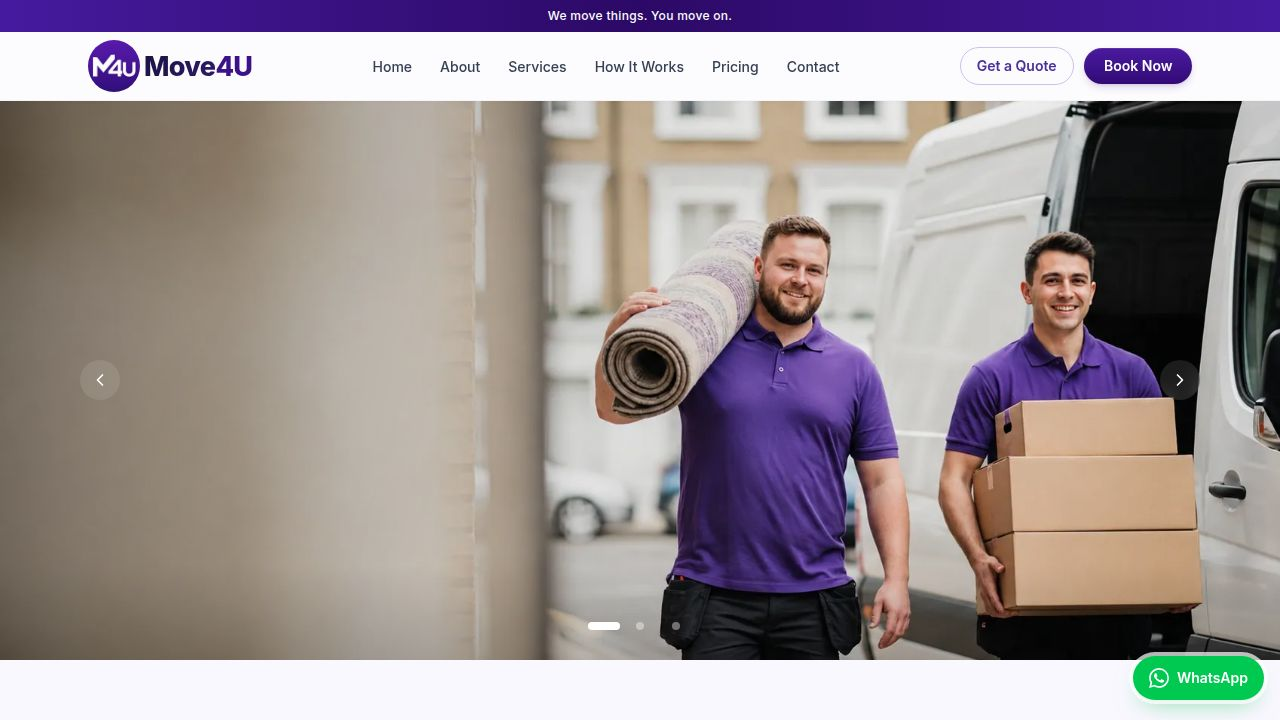
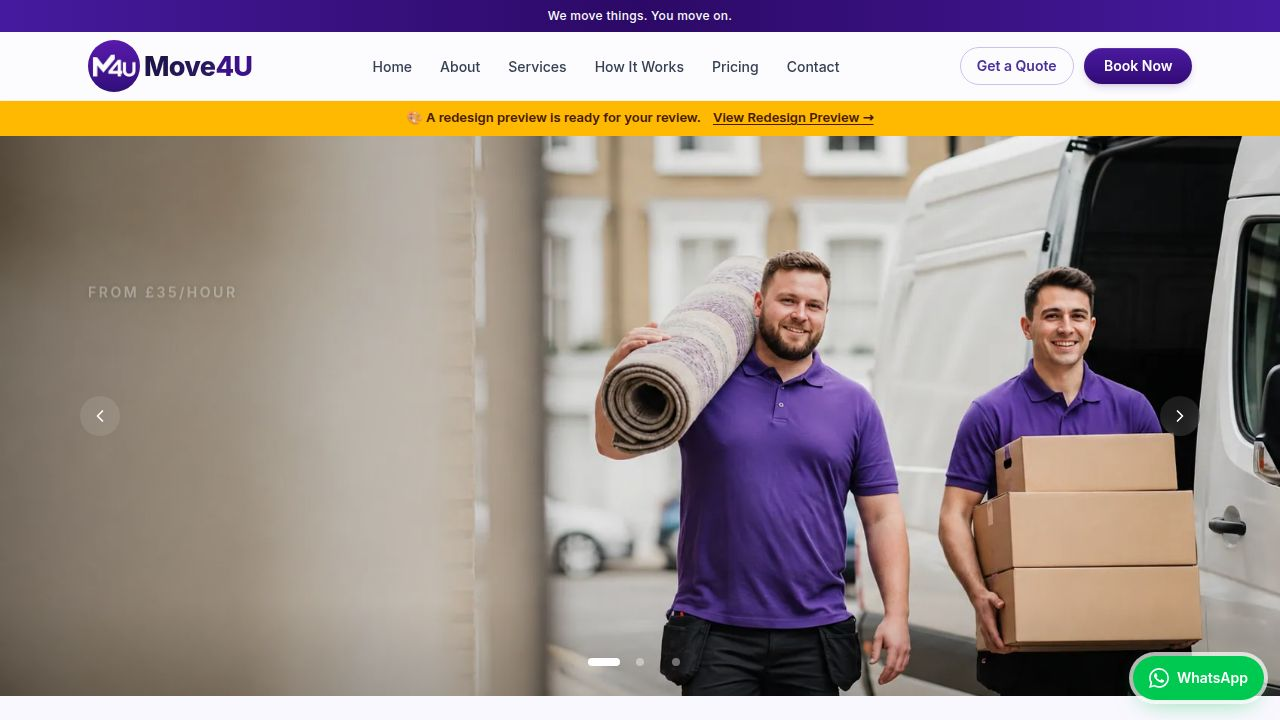
Replace Gmail email sending with Zoho for all outgoing application emails
Integrate Zoho Mail for sending confirmation and payment emails via SMTP, updating API endpoints and frontend components.

Replit-Commit-Author: Agent
Replit-Commit-Session-Id: 07bf3fe5-6776-4466-8bc2-98fb9ea8217c
Replit-Commit-Checkpoint-Type: full_checkpoint
Replit-Commit-Event-Id: 3c06571a-ff63-4faa-9170-6f4c83b72a71
Replit-Commit-Screenshot-Url: https://storage.googleapis.com/screenshot-production-us-central1/74eddbf7-d890-45b1-ac5e-73575f91ee9f/07bf3fe5-6776-4466-8bc2-98fb9ea8217c/vzKKDwg
Replit-Helium-Checkpoint-Created: true

diff --git a/artifacts/api-server/src/lib/email.ts b/artifacts/api-server/src/lib/email.ts
@@ -1,0 +1,80 @@
+// ============================================================
+// ZOHO SMTP EMAIL SENDER
+// ============================================================
+// Sends transactional emails from [email redacted] via Zoho Mail.
+//
+// Required environment variables:
+//   ZOHO_SMTP_PASSWORD — password (or app-specific password) for
+//                        the [email redacted] Zoho mailbox.
+//
+// Optional overrides:
+//   ZOHO_SMTP_HOST (default: smtp.zoho.eu)
+//   ZOHO_SMTP_PORT (default: 587)
+//   ZOHO_SMTP_USER (default: [email redacted])
+// ============================================================
+
+import nodemailer from "nodemailer";
+import { logger } from "./logger";
+
+const FROM_EMAIL = "[email redacted]";
+const FROM_NAME  = "Move4U";
+
+function createTransporter() {
+  const password = process.env["ZOHO_SMTP_PASSWORD"];
+  if (!password) return null;
+
+  const host = process.env["ZOHO_SMTP_HOST"] ?? "smtp.zoho.eu";
+  const port = parseInt(process.env["ZOHO_SMTP_PORT"] ?? "587", 10);
+  const user = process.env["ZOHO_SMTP_USER"] ?? FROM_EMAIL;
+
+  return nodemailer.createTransport({
+    host,
+    port,
+    secure: port === 465,
+    auth: { user, pass: password },
+  });
+}
+
+export interface SendEmailOptions {
+  to:      string;
+  subject: string;
+  text:    string;
+  replyTo?: string;
+}
+
+export async function sendEmail(
+  opts: SendEmailOptions,
+): Promise<{ sent: boolean; error?: string }> {
+  if (!opts.to?.trim()) {
+    return { sent: false, error: "No recipient address provided" };
+  }
+
+  const transporter = createTransporter();
+  if (!transporter) {
+    logger.warn(
+      "ZOHO_SMTP_PASSWORD is not set — email sending is disabled. " +
+      "Add ZOHO_SMTP_PASSWORD to your environment secrets to enable Zoho Mail.",
+    );
+    return { sent: false, error: "SMTP not configured (ZOHO_SMTP_PASSWORD missing)" };
+  }
+
+  try {
+    await transporter.sendMail({
+      from:    `"${FROM_NAME}" <${FROM_EMAIL}>`,
+      replyTo: opts.replyTo ?? FROM_EMAIL,
+      to:      opts.to,
+      subject: opts.subject,
+      text:    opts.text,
+    });
+
+    logger.info(
+      { to: opts.to, subject: opts.subject },
+      "Email sent via Zoho SMTP",
+    );
+    return { sent: true };
+  } catch (err) {
+    const msg = err instanceof Error ? err.message : String(err);
+    logger.error({ err, to: opts.to, subject: opts.subject }, "Zoho SMTP send failed");
+    return { sent: false, error: msg };
+  }
+}

diff --git a/artifacts/move4u/src/pages/AdminBookingsPage.tsx b/artifacts/move4u/src/pages/AdminBookingsPage.tsx
@@ -271,16 +271,9 @@ function buildContactHref(channel: ContactChannel, b: BookingRecord, message: st
       // browsers normalise both.
       return `sms:${dialablePhone(b.phone)}?body=${encoded}`;
     case "email": {
-      // Gmail compose link — pre-fills To, Subject and Body.
-      // ⚠ Admin must verify the sender is [email redacted] before sending.
       const addr = email || "";
       const subject = `Move4U — Booking ${b.bookingReference}`;
-      return (
-        `https://mail.google.com/mail/?view=cm&fs=1` +
-        `&to=${encodeURIComponent(addr)}` +
-        `&su=${encodeURIComponent(subject)}` +
-        `&body=${encoded}`
-      );
+      return `mailto:${encodeURIComponent(addr)}?subject=${encodeURIComponent(subject)}&body=${encoded}`;
     }
     case "call":
       return `tel:${dialablePhone(b.phone)}`;
@@ -1037,10 +1030,8 @@ export default function AdminBookingsPage() {
     }
   }
 
-  function buildConfirmationEmailHref(b: BookingRecord, form: EditForm): string {
-    const email   = parseEmailFromContactMethod(b.contactMethod);
-    const subject = `Updated Booking Confirmation — ${b.bookingReference}`;
-    const date    = form.confirmedDate || b.date     || "TBC";
+  function buildConfirmationEmailBody(b: BookingRecord, form: EditForm): string {
+    const date    = form.confirmedDate || b.date      || "TBC";
     const time    = form.confirmedTime || b.timeWindow || "TBC";
     const from    = form.pickup  || b.pickup  || "—";
     const to      = form.dropoff || b.dropoff || "—";
@@ -1048,7 +1039,7 @@ export default function AdminBookingsPage() {
     const deposit = form.depositAmount ? `£${parseFloat(form.depositAmount).toFixed(2)}` : "—";
     const name    = b.name || "there";
 
-    const body =
+    return (
       `Hi ${name},\n\n` +
       `Please find your updated booking confirmation below.\n\n` +
       `Booking Reference: ${b.bookingReference}\n` +
@@ -1063,32 +1054,30 @@ export default function AdminBookingsPage() {
       `Kind regards,\n` +
       `Move4U\n` +
       `📞 07541 822561\n` +
-      `🌐 https://move4u.uk`;
-
-    return (
-      `https://mail.google.com/mail/?view=cm&fs=1` +
-      `&to=${encodeURIComponent(email)}` +
-      `&su=${encodeURIComponent(subject)}` +
-      `&body=${encodeURIComponent(body)}`
+      `🌐 https://move4u.uk`
     );
   }
 
-  async function recordConfirmationSent(ref: string, subject: string, sentTo: string) {
+  async function sendConfirmationEmail(ref: string, b: BookingRecord, form: EditForm) {
+    const email   = parseEmailFromContactMethod(b.contactMethod);
+    if (!email) return;
+    const subject = `Updated Booking Confirmation — ${ref}`;
+    const body    = buildConfirmationEmailBody(b, form);
     setConfirmBusy(ref);
     try {
       await apiFetch(
         `/api/admin/bookings/${encodeURIComponent(ref)}/send-confirmation`,
-        { method: "POST", body: JSON.stringify({ subject, sentTo }) },
+        { method: "POST", body: JSON.stringify({ subject, sentTo: email, body }) },
       );
       setBookings((prev) =>
-        prev.map((b) =>
-          b.bookingReference === ref
-            ? { ...b, confirmationSent: "Yes", confirmationSentAt: new Date().toISOString() }
-            : b,
+        prev.map((bk) =>
+          bk.bookingReference === ref
+            ? { ...bk, confirmationSent: "Yes", confirmationSentAt: new Date().toISOString() }
+            : bk,
         ),
       );
     } catch {
-      // Best-effort tracking — don't block the admin
+      // Errors are surfaced via apiFetch — don't block the admin UI
     } finally {
       setConfirmBusy(null);
     }
@@ -1799,8 +1788,6 @@ export default function AdminBookingsPage() {
                     {(() => {
                       const email = parseEmailFromContactMethod(booking.contactMethod);
                       if (!email) return null;
-                      const subject       = `Updated Booking Confirmation — ${booking.bookingReference}`;
-                      const confirmHref   = buildConfirmationEmailHref(booking, form);
                       const alreadySent   = booking.confirmationSent === "Yes";
                       const isConfirmBusy = confirmBusy === ref;
                       return (
@@ -1811,23 +1798,20 @@ export default function AdminBookingsPage() {
                               ✓ Confirmation sent{booking.confirmationSentAt ? ` on ${new Date(booking.confirmationSentAt).toLocaleDateString("en-GB")}` : ""}.
                             </p>
                           )}
-                          <div className="bg-amber-50 border border-amber-100 rounded-lg px-3 py-2 text-xs text-amber-700 mb-3">
-                            ⚠ This opens Gmail compose. Verify the sender is <strong>[email redacted]</strong> before sending.
+                          <div className="bg-purple-50 border border-purple-100 rounded-lg px-3 py-2 text-xs text-purple-700 mb-3">
+                            Emails are sent from <strong>[email redacted]</strong>
                           </div>
-                          <a
-                            href={confirmHref}
-                            target="_blank"
-                            rel="noopener noreferrer"
-                            onClick={() => {
-                              void recordConfirmationSent(ref, subject, email);
-                            }}
-                            className="inline-flex items-center gap-1.5 px-4 py-2 bg-purple-700 text-white text-sm font-semibold rounded-xl hover:bg-purple-800 transition-colors"
+                          <button
+                            type="button"
+                            disabled={isConfirmBusy}
+                            onClick={() => void sendConfirmationEmail(ref, booking, form)}
+                            className="inline-flex items-center gap-1.5 px-4 py-2 bg-purple-700 text-white text-sm font-semibold rounded-xl hover:bg-purple-800 transition-colors disabled:opacity-60"
                           >
                             {isConfirmBusy
-                              ? <><span className="w-3.5 h-3.5 border-2 border-white border-t-transparent rounded-full animate-spin" /> Recording…</>
+                              ? <><span className="w-3.5 h-3.5 border-2 border-white border-t-transparent rounded-full animate-spin" /> Sending…</>
                               : <><Mail className="w-3.5 h-3.5" /> {alreadySent ? "Re-send Confirmation" : "Send Updated Confirmation"}</>
                             }
-                          </a>
+                          </button>
                         </section>
                       );
                     })()}

diff --git a/artifacts/api-server/src/routes/admin.ts b/artifacts/api-server/src/routes/admin.ts
@@ -15,6 +15,7 @@ import { Router, type Request, type Response, type NextFunction } from "express"
 const Stripe = require("stripe").default ?? require("stripe");
 import { getAllBookings, updateBookingAdmin, getBookingByRef, writeAuditLog, type BookingRecord } from "../lib/sheets";
 import { editBookingMessage, sendBookingUpdateNotification, sendInvoiceCreatedNotification, type TelegramBooking } from "../lib/telegram";
+import { sendEmail } from "../lib/email";
 import { logger } from "../lib/logger";
 
 const adminRouter = Router();
@@ -593,18 +594,34 @@ adminRouter.post("/admin/bookings/:ref/payment-link", requireAdmin, async (req: 
 });
 
 // ── POST /api/admin/bookings/:ref/send-confirmation ──────────────────────────
-// Records that a confirmation email has been sent (opened manually via Gmail).
-// Does NOT send the email itself — the admin opens a Gmail compose link in the UI.
+// Sends a booking confirmation email from [email redacted] via Zoho SMTP,
+// then records the send in Google Sheets and the audit log.
 adminRouter.post("/admin/bookings/:ref/send-confirmation", requireAdmin, async (req: Request, res: Response) => {
   const bookingRef = req.params.ref as string;
   const {
     subject = `Updated Booking Confirmation — ${bookingRef}`,
     sentTo  = "",
+    body    = "",
   } = req.body as Record<string, string>;
 
   const sentAt = new Date().toISOString();
 
+  if (!sentTo.trim()) {
+    res.status(400).json({ error: "No recipient email address provided" });
+    return;
+  }
+
   try {
+    // Send the email via Zoho SMTP
+    const emailResult = await sendEmail({ to: sentTo, subject, text: body });
+
+    if (!emailResult.sent) {
+      logger.warn({ bookingRef, sentTo, error: emailResult.error }, "Confirmation email failed to send");
+      res.status(502).json({ error: emailResult.error ?? "Failed to send email" });
+      return;
+    }
+
+    // Record the successful send in Sheets and audit log
     await updateBookingAdmin(bookingRef, {
       confirmationSent:    "Yes",
       confirmationSentAt:  sentAt,
@@ -616,15 +633,15 @@ adminRouter.post("/admin/bookings/:ref/send-confirmation", requireAdmin, async (
       bookingRef,
       fieldChanged: "Confirmation Email",
       oldValue:     "Not sent",
-      newValue:     `Sent — Subject: ${subject}${sentTo ? ` | To: ${sentTo}` : ""}`,
+      newValue:     `Sent — Subject: ${subject} | To: ${sentTo}`,
       changedBy:    "Admin",
     }]);
 
-    logger.info({ bookingRef, subject, sentTo }, "Confirmation send recorded");
-    res.json({ success: true, sentAt });
+    logger.info({ bookingRef, subject, sentTo }, "Confirmation email sent via Zoho SMTP");
+    res.json({ success: true, emailSent: true, sentAt });
   } catch (err) {
-    logger.error({ err, bookingRef }, "Failed to record confirmation send");
-    res.status(500).json({ error: "Failed to record confirmation" });
+    logger.error({ err, bookingRef }, "Failed to send confirmation email");
+    res.status(500).json({ error: "Failed to send confirmation email" });
   }
 });
 